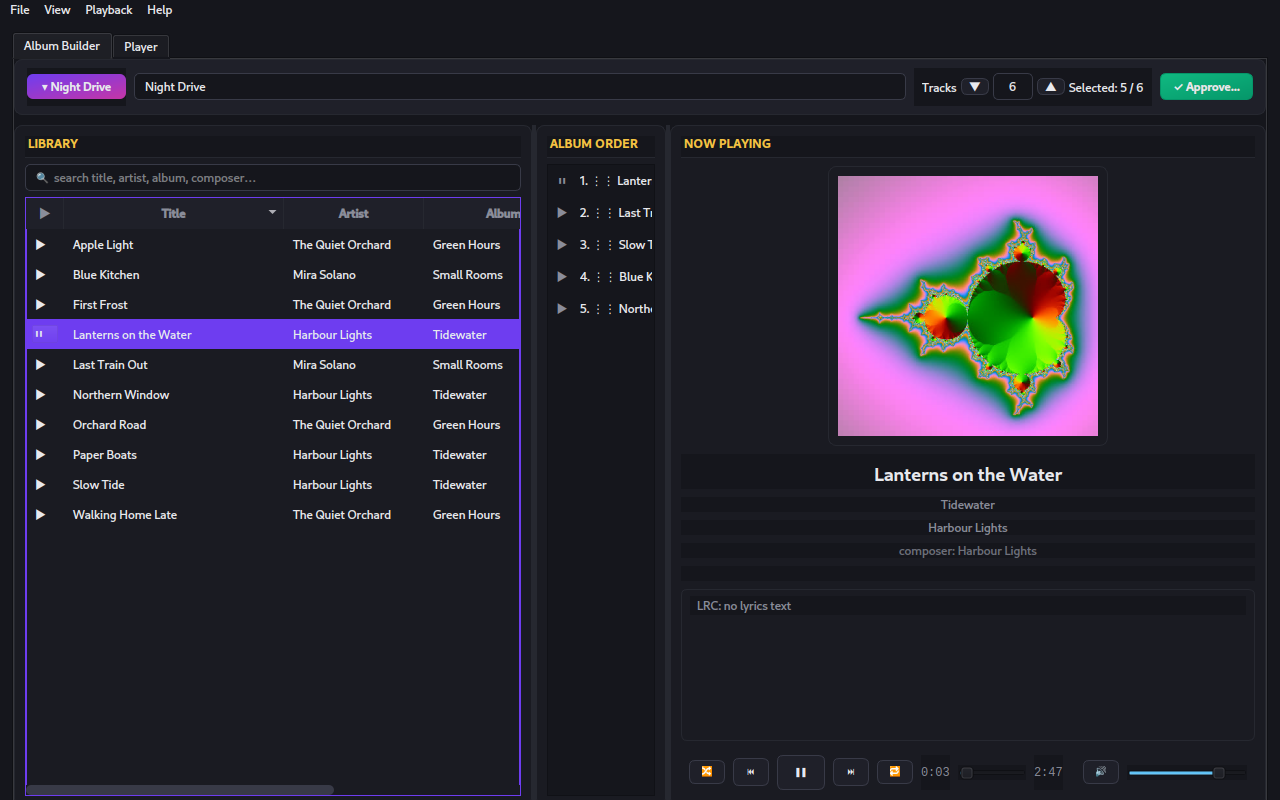
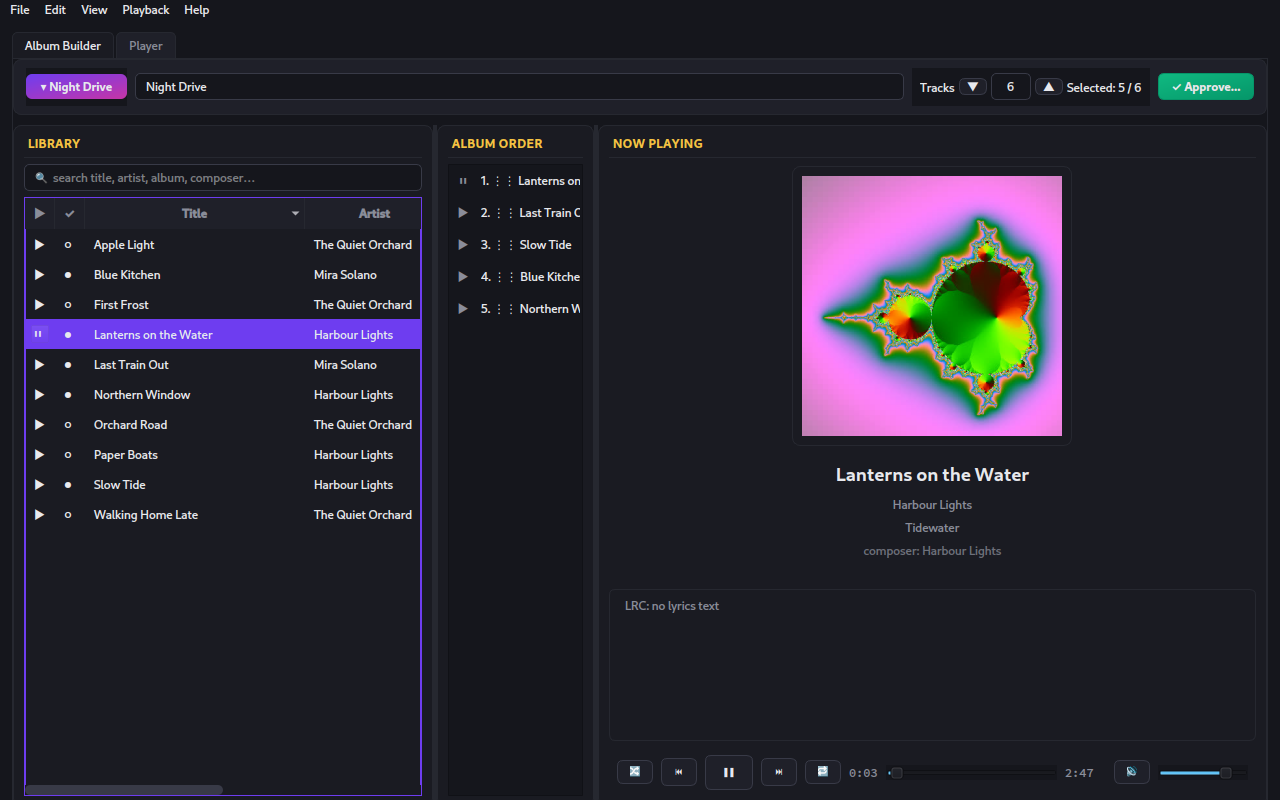
content(album-builder): retaken Curate screenshot for 1.0.0's column order

diff --git a/CHANGELOG.md b/CHANGELOG.md
@@ -12,6 +12,7 @@ so dated sections stand in for versions. Planned work lives in
 ### Changed
 
 - **Album Builder is finished: its page marks it live for 1.0, with undo for removing a song and reports printed on white**
+  Its main screenshot is retaken, showing the tick column beside the play button.
 
 - **Games Hub's page covers 1.3.0: a Games menu, "In progress" marks, filter buttons and favourites, one Preferences window, and a window that stays put**
 
